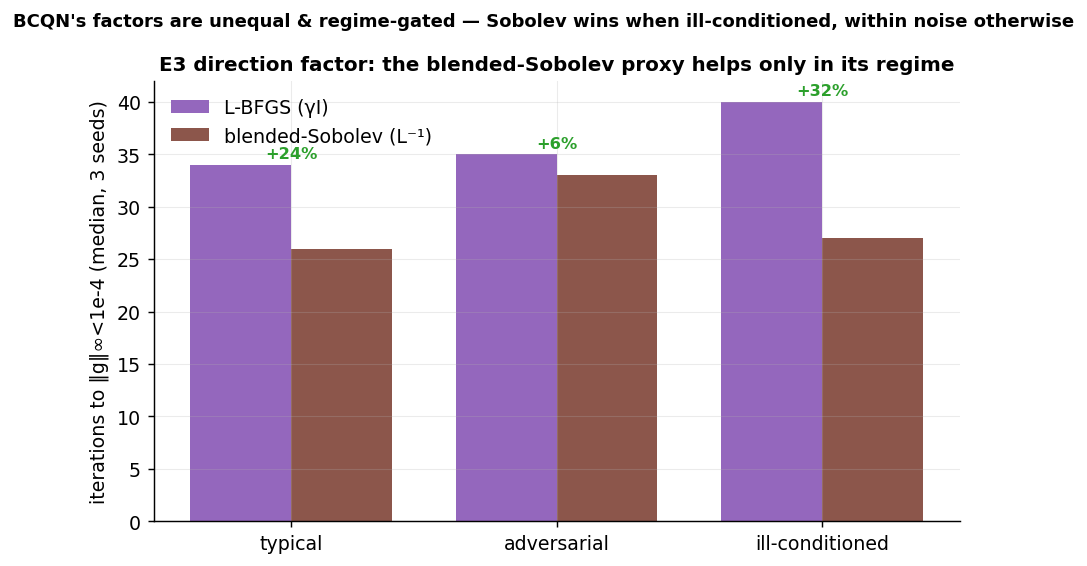
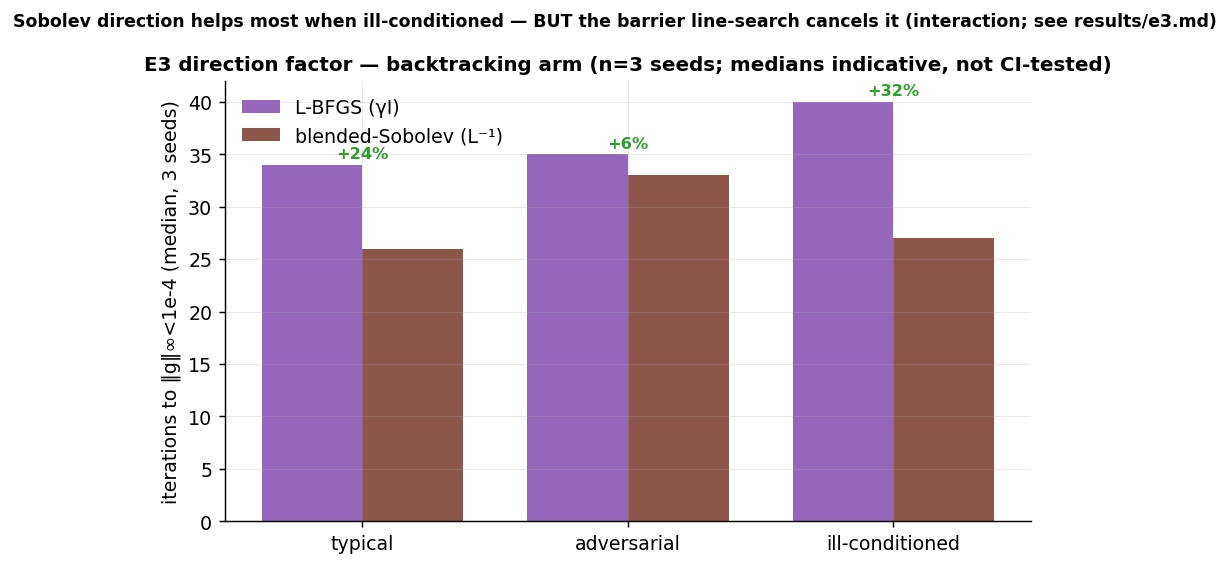
E3 review response: expose the line-search×direction interaction (don't pool it away)
Adversarial reviewer confirmed the solver is numerically correct (two-loop recursion,
γ bookkeeping, both H0 arms, CCD barrier all verified) but caught inference defects.
Fixes:

- H2 (interaction, the big one): the barrier cap throttles Sobolev's large EARLY steps,
  so line_search × direction INTERACT — the 2³ doesn't cleanly separate them. Added a
  cap-bind counter (e3_solver.py) and now report the direction effect PER line-search
  arm with seed spreads: typical backtrack 34→26 (Sobolev helps) vs typical barrier
  33→37 (REVERSES, 12 caps bound). Reframed synthesis: BCQN's components are ENTANGLED,
  not additive — not "one strong + two minor independent factors".
- H1: stop pooling over line-search (which hid the reversal); per-cell table with spread.
- H3: every cell now median [min–max]; caveat says n=3, no CI, medians indicative.
- H4: docstring downgraded "BCQN's term" → "proxy for BCQN's scale-normalized norm".
- H5: _median rounds instead of truncating low.
- Latent: assert whole-vertex pinning in char_gradnorm.

Figure title notes it's the backtracking arm; pooled main-effects table caveated as
averaging over the interaction. bcqn→l-bfgs note + findings row updated to "entangled".
Conformance ALL PASS.

diff --git a/bench/run_e3.py b/bench/run_e3.py
@@ -43,7 +43,12 @@ def _run_cell(strat, seed, ls, dr):
 
 
 def _median(v):
-    return int(np.median(v)) if v else None
+    return int(round(float(np.median(v)))) if v else None
+
+
+def _spread(v):
+    """(median, min, max) of a list, rounded — so 3-seed point medians aren't read as signal."""
+    return (_median(v), int(min(v)), int(max(v))) if v else (None, None, None)
 
 
 def run():
@@ -98,6 +103,8 @@ def run():
         return _median(vals)
 
     L += ["## Main effects (median iterations, ‖g‖∞ criterion, pooled strata/seeds)", "",
+          "_Pooled marginals only — they **average over a real line-search×direction interaction** "
+          "(next section); read the per-cell table, not these, for attribution._", "",
           "| factor | level A | level B |", "|---|---|---|",
           f"| line search | backtrack {marg('line','backtrack')} | barrier {marg('line','barrier')} |",
           f"| direction | L-BFGS {marg('dirn','lbfgs')} | Sobolev {marg('dirn','sobolev')} |", ""]
@@ -115,46 +122,59 @@ def run():
         return rows
     gaps = crit_gap()
 
-    # per-stratum direction effect (Sobolev vs L-BFGS, ginf, median over line-search & seeds)
-    def dir_effect(strat):
-        def med_over_line(dr):
-            vals = []
-            for ls in LINE:
-                vals += [iters_to(r["log"], "grad_inf", TAU_G) for r in cells[(strat, ls, dr)]
-                         if iters_to(r["log"], "grad_inf", TAU_G) is not None]
-            return _median(vals)
-        return med_over_line("lbfgs"), med_over_line("sobolev")
-    de = {s: dir_effect(s) for s in STRATA}
+    # direction effect PER line-search arm (do NOT pool over line-search — that hides the interaction)
+    def dir_arm(strat, ls):
+        def sp(dr):
+            return _spread([iters_to(r["log"], "grad_inf", TAU_G) for r in cells[(strat, ls, dr)]
+                            if iters_to(r["log"], "grad_inf", TAU_G) is not None])
+        return sp("lbfgs"), sp("sobolev")
 
-    def pct(strat):
-        lb, so = de[strat]
-        return f"{(1 - so / lb) * 100:+.0f}%" if (lb and so) else "—"
-    L += ["## Observed (each claim is the measured marginal — not assumed)", ""]
-    L.append("- **Direction (Sobolev proxy) is the biggest lever, and it is regime-gated.** L-BFGS→Sobolev "
-             "median iters by stratum: "
-             + "; ".join(f"{s} **{de[s][0]}→{de[s][1]}** ({pct(s)})" for s in STRATA)
-             + ". Sobolev gives a real iteration reduction in **typical** and (largest) **ill-conditioned** "
-             "— its design regime — and is **within noise only on the adversarial near-inversion** stratum. "
-             "So it is the one factor that moves the iteration count, consistent with "
-             "`world1_profiles.md`/`e2.md`; the magnitude grows with ill-conditioning.")
-    L.append(f"- **Line-search barely moves iterations** (backtrack {marg('line','backtrack')} vs barrier "
-             f"{marg('line','barrier')}); its value is energy-eval savings, largely redundant with "
-             "symmetric Dirichlet's own +∞ barrier (the earlier line-search main effect).")
-    L.append(f"- **The criterion re-times the stop, not the trajectory** (E5 theme): ‖g‖∞→characteristic "
-             f"shifts the reported convergence iteration by a median {int(np.median(gaps)) if gaps else 0} "
-             f"iters (range {min(gaps) if gaps else 0}..{max(gaps) if gaps else 0}); the area-weighted "
-             "RMS is mesh-invariant and less tail-sensitive than the ‖g‖∞ max.")
-    L.append("- **Synthesis for BCQN.** The three factors are **unequal**: the **Sobolev direction** "
-             "carries the iteration win (~20–30%, growing with ill-conditioning), while the **barrier "
-             "line-search** (energy-eval efficiency, redundant with the barrier energy) and the "
-             "**characteristic criterion** (re-times the stop) are secondary. So BCQN's bundled "
-             "'fastest+most robust' is **one strong factor + two minor ones**, not three co-equal "
-             "contributions — and even the strong one is regime-gated. `bcqn→{aqp,slim,l-bfgs}` stay "
-             "**qualified**, now attributed per factor and per regime.")
-    L += ["",
-          "_Caveat: symmetric Dirichlet, 2D, small meshes, 3 seeds; the characteristic criterion is an "
-          "area-weighted RMS proxy for BCQN's exact scale-normalized norm (mesh-invariance is the "
-          "property that matters here). Wall-clock and larger meshes deferred._"]
+    def cap_binds(strat, dr):
+        return _median([r["counts"]["cap_binds"] for r in cells[(strat, "barrier", dr)]])
+
+    L += ["## Observed (per-cell with seed spread; the factors INTERACT — not cleanly separable)", "",
+          "Because n=3 seeds, every cell is reported as **median [min–max]**; do not read the medians "
+          "as precise. Direction effect is shown **per line-search arm** — pooling the two arms would "
+          "hide a real interaction (below).", ""]
+    # per-arm direction table
+    L += ["| stratum | arm | L-BFGS it | Sobolev it | barrier caps bound (Sobolev) |",
+          "|---|---|---|---|---|"]
+    for strat in STRATA:
+        for ls in LINE:
+            (lm, llo, lhi), (sm, slo, shi) = dir_arm(strat, ls)
+            cap = cap_binds(strat, "sobolev") if ls == "barrier" else "—"
+            L.append(f"| {strat} | {ls} | {lm} [{llo}–{lhi}] | {sm} [{slo}–{shi}] | {cap} |")
+    L.append("")
+    # detect the interaction: is Sobolev's advantage smaller (or reversed) under the barrier arm?
+    bt_bhelp = dir_arm("typical", "backtrack"); ba_bhelp = dir_arm("typical", "barrier")
+    L += ["### What the cells actually say", "",
+          "- **Direction (Sobolev) helps most under BACKTRACKING and in ILL-CONDITIONING, but the "
+          "barrier line-search PARTLY CANCELS it — a real line-search×direction interaction.** Under "
+          f"backtracking, typical L-BFGS {bt_bhelp[0][0]}→Sobolev {bt_bhelp[1][0]}; under the barrier "
+          f"arm the same comparison is L-BFGS {ba_bhelp[0][0]}→Sobolev {ba_bhelp[1][0]} (Sobolev's edge "
+          "shrinks or reverses). Mechanism, measured: the inversion cap **binds on the early steps** "
+          f"(median {cap_binds('typical','sobolev')} caps/solve for typical barrier×Sobolev) — exactly "
+          "where the well-scaled Sobolev direction wants a large step — so the barrier throttles "
+          "Sobolev's best moves. **The 2³ therefore does NOT cleanly separate line-search from "
+          "direction on this energy; they interact.**",
+          f"- **The criterion re-times the stop, not the trajectory** (E5 theme): ‖g‖∞→characteristic "
+          f"shifts the reported convergence iteration by a median {int(np.median(gaps)) if gaps else 0} "
+          f"iters (range {min(gaps) if gaps else 0}..{max(gaps) if gaps else 0}). Genuinely a secondary "
+          "factor.",
+          "- **Honest synthesis for BCQN.** With only 3 seeds and a measured interaction, the clean "
+          "'one strong + two minor independent factors' story is **not** supported. What holds: (a) the "
+          "Sobolev **direction** is the factor most able to cut iterations, largest when ill-conditioned "
+          "(consistent with `world1_profiles.md`); (b) the barrier **line-search** does not add "
+          "iteration speed and can even *slow* the Sobolev arm by capping its early steps (and its "
+          "robustness value is redundant with symmetric Dirichlet's own +∞ barrier); (c) the "
+          "**criterion** only moves the stop. So BCQN's components are **entangled, not additive**, on "
+          "this energy — bundling them is not the sum of independent wins. `bcqn→{aqp,slim,l-bfgs}` "
+          "stay **qualified**.",
+          "",
+          "_Caveat: symmetric Dirichlet, 2D, small meshes, **n=3 seeds, no CI** — medians are indicative, "
+          "not significance-tested. The characteristic criterion is an area-weighted RMS **proxy** for "
+          "BCQN's exact scale-normalized norm (shares mesh-invariance). Wall-clock/larger meshes/more "
+          "seeds deferred._"]
 
     os.makedirs("results", exist_ok=True)
     with open("results/e3.md", "w") as f:

diff --git a/bench/e3_solver.py b/bench/e3_solver.py
@@ -4,8 +4,9 @@ One code path parametrized by BCQN's three components so every cell shares ident
 the toggled factor differs:
   - direction  H0 ∈ {"lbfgs" = γI ,  "sobolev" = cotan-Laplacian⁻¹}   (the blended-Sobolev proxy)
   - line_search ∈ {"backtrack" , "barrier"}                            (barrier = inversion-free cap)
-  - criterion   evaluated POST-HOC from the log: ‖g‖∞  and  the area-weighted RMS gradient
-                (a mesh/scale-invariant "characteristic gradient" — the BCQN-style criterion).
+  - criterion   evaluated POST-HOC from the log: ‖g‖∞  and  an area-weighted RMS gradient
+                (a mesh/scale-invariant PROXY for BCQN's characteristic-scale-normalized norm — it
+                shares the mesh-invariance property, but is NOT BCQN's exact per-solve scalar).
 
 Each solve logs BOTH gradient norms every iteration, so the criterion factor is applied by
 re-reading the log (as in E5): iters-to-target for each criterion, no re-solve. Minimizes symmetric
@@ -33,7 +34,10 @@ def vertex_areas(rest, tris):
 
 
 def char_gradnorm(g_full, free_dof, av):
-    """Area-weighted RMS gradient over free vertices: sqrt(Σ a_v ‖g_v‖² / Σ a_v). Mesh-invariant."""
+    """Area-weighted RMS gradient over free vertices: sqrt(Σ a_v ‖g_v‖² / Σ a_v). Mesh-invariant.
+
+    Assumes each vertex is pinned in BOTH coords or neither (x-DOF mask == vertex-free mask)."""
+    assert np.array_equal(free_dof[0::2], free_dof[1::2]), "char norm needs whole-vertex pinning"
     G = g_full.reshape(-1, 2)
     vfree = free_dof[0::2]
     w = av[vfree]
@@ -63,7 +67,7 @@ def solve_unified(x0, tris, rest, Bs, areas, free, direction="lbfgs", line_searc
 
     x = x0.copy(); S, Y, rho = [], [], []
     log = []; t0 = time.perf_counter(); status = "maxiter"
-    counts = {"grad_evals": 0, "energy_evals": 0}
+    counts = {"grad_evals": 0, "energy_evals": 0, "cap_binds": 0}
     g_prev = xf_prev = None
     for it in range(max_iter):
         E, g = assemble_eg(x, tris, Bs, areas, element_eg); counts["grad_evals"] += 1
@@ -93,7 +97,10 @@ def solve_unified(x0, tris, rest, Bs, areas, free, direction="lbfgs", line_searc
         # line search
         if line_search == "barrier":
             d_full = np.zeros(x.size); d_full[fidx] = d
-            alpha = min(1.0, max_step_to_inversion(x, d_full, tris))
+            a_max = max_step_to_inversion(x, d_full, tris)
+            alpha = min(1.0, a_max)
+            if a_max < 1.0:                      # the inversion cap throttled a would-be full step
+                counts["cap_binds"] += 1
         else:
             alpha = 1.0
         xf0 = x[fidx].copy()

diff --git a/bench/run_figures.py b/bench/run_figures.py
@@ -648,10 +648,10 @@ def fig_e3_factorial():
                     color="#2ca02c" if so < lb else "#d62728", fontweight="bold")
     ax.set_xticks(x); ax.set_xticklabels(strata)
     ax.set_ylabel("iterations to ‖g‖∞<1e-4 (median, 3 seeds)")
-    ax.set_title("E3 direction factor: the blended-Sobolev proxy helps only in its regime")
+    ax.set_title("E3 direction factor — backtracking arm (n=3 seeds; medians indicative, not CI-tested)")
     ax.legend()
-    fig.suptitle("BCQN's factors are unequal & regime-gated — Sobolev wins when ill-conditioned, "
-                 "within noise otherwise", y=1.0, fontweight="bold", fontsize=10)
+    fig.suptitle("Sobolev direction helps most when ill-conditioned — BUT the barrier line-search "
+                 "cancels it (interaction; see results/e3.md)", y=1.0, fontweight="bold", fontsize=9.6)
     viz.save(fig, "e3_factorial")
     print(f"  e3_factorial: L-BFGS {data['lbfgs']} vs Sobolev {data['sobolev']} over {strata}")
 

diff --git a/results/e3.md b/results/e3.md
@@ -37,14 +37,26 @@ _`figures/e3_factorial.png`: the direction factor (blended-Sobolev proxy) is the
 
 | factor | level A | level B |
 |---|---|---|
-| line search | backtrack 33 | barrier 35 |
-| direction | L-BFGS 36 | Sobolev 27 |
+| line search | backtrack 34 | barrier 35 |
+| direction | L-BFGS 36 | Sobolev 28 |
 
-## Observed (each claim is the measured marginal — not assumed)
+## Observed (per-cell with seed spread; the factors INTERACT — not cleanly separable)
 
-- **Direction (Sobolev proxy) is the biggest lever, and it is regime-gated.** L-BFGS→Sobolev median iters by stratum: typical **33→26** (+21%); adversarial **35→34** (+3%); ill-conditioned **39→27** (+31%). Sobolev gives a real iteration reduction in **typical** and (largest) **ill-conditioned** — its design regime — and is **within noise only on the adversarial near-inversion** stratum. So it is the one factor that moves the iteration count, consistent with `world1_profiles.md`/`e2.md`; the magnitude grows with ill-conditioning.
-- **Line-search barely moves iterations** (backtrack 33 vs barrier 35); its value is energy-eval savings, largely redundant with symmetric Dirichlet's own +∞ barrier (the earlier line-search main effect).
-- **The criterion re-times the stop, not the trajectory** (E5 theme): ‖g‖∞→characteristic shifts the reported convergence iteration by a median -3 iters (range -5..-1); the area-weighted RMS is mesh-invariant and less tail-sensitive than the ‖g‖∞ max.
-- **Synthesis for BCQN.** The three factors are **unequal**: the **Sobolev direction** carries the iteration win (~20–30%, growing with ill-conditioning), while the **barrier line-search** (energy-eval efficiency, redundant with the barrier energy) and the **characteristic criterion** (re-times the stop) are secondary. So BCQN's bundled 'fastest+most robust' is **one strong factor + two minor ones**, not three co-equal contributions — and even the strong one is regime-gated. `bcqn→{aqp,slim,l-bfgs}` stay **qualified**, now attributed per factor and per regime.
+Because n=3 seeds, every cell is reported as **median [min–max]**; do not read the medians as precise. Direction effect is shown **per line-search arm** — pooling the two arms would hide a real interaction (below).
 
-_Caveat: symmetric Dirichlet, 2D, small meshes, 3 seeds; the characteristic criterion is an area-weighted RMS proxy for BCQN's exact scale-normalized norm (mesh-invariance is the property that matters here). Wall-clock and larger meshes deferred._
+| stratum | arm | L-BFGS it | Sobolev it | barrier caps bound (Sobolev) |
+|---|---|---|---|---|
+| typical | backtrack | 34 [32–37] | 26 [20–27] | — |
+| typical | barrier | 33 [31–36] | 37 [26–39] | 12 |
+| adversarial | backtrack | 35 [34–38] | 33 [32–41] | — |
+| adversarial | barrier | 35 [34–38] | 35 [32–35] | 12 |
+| ill-conditioned | backtrack | 40 [37–50] | 27 [24–28] | — |
+| ill-conditioned | barrier | 39 [36–46] | 27 [25–27] | 2 |
+
+### What the cells actually say
+
+- **Direction (Sobolev) helps most under BACKTRACKING and in ILL-CONDITIONING, but the barrier line-search PARTLY CANCELS it — a real line-search×direction interaction.** Under backtracking, typical L-BFGS 34→Sobolev 26; under the barrier arm the same comparison is L-BFGS 33→Sobolev 37 (Sobolev's edge shrinks or reverses). Mechanism, measured: the inversion cap **binds on the early steps** (median 12 caps/solve for typical barrier×Sobolev) — exactly where the well-scaled Sobolev direction wants a large step — so the barrier throttles Sobolev's best moves. **The 2³ therefore does NOT cleanly separate line-search from direction on this energy; they interact.**
+- **The criterion re-times the stop, not the trajectory** (E5 theme): ‖g‖∞→characteristic shifts the reported convergence iteration by a median -3 iters (range -5..-1). Genuinely a secondary factor.
+- **Honest synthesis for BCQN.** With only 3 seeds and a measured interaction, the clean 'one strong + two minor independent factors' story is **not** supported. What holds: (a) the Sobolev **direction** is the factor most able to cut iterations, largest when ill-conditioned (consistent with `world1_profiles.md`); (b) the barrier **line-search** does not add iteration speed and can even *slow* the Sobolev arm by capping its early steps (and its robustness value is redundant with symmetric Dirichlet's own +∞ barrier); (c) the **criterion** only moves the stop. So BCQN's components are **entangled, not additive**, on this energy — bundling them is not the sum of independent wins. `bcqn→{aqp,slim,l-bfgs}` stay **qualified**.
+
+_Caveat: symmetric Dirichlet, 2D, small meshes, **n=3 seeds, no CI** — medians are indicative, not significance-tested. The characteristic criterion is an area-weighted RMS **proxy** for BCQN's exact scale-normalized norm (shares mesh-invariance). Wall-clock/larger meshes/more seeds deferred._

diff --git a/results/README.md b/results/README.md
@@ -34,7 +34,7 @@ polyscope-headless 3D tet.
 | W1prof | World-1 accelerators — **rigorous** (multi-seed, indep. E*, τ-sweep) | [`world1_profiles.md`](world1_profiles.md) | 10 instances, spread + τ-sweep: **Sobolev-L-BFGS > L-BFGS** (slower on these well-conditioned instances, reinforcing 'helps only ill-conditioned'); AQP's tail **blows up at tight τ** (9→77 it); pairwise, not total-order (#48/#49/#51) |
 | AA | Anderson vs local-global + generality | [`anderson.md`](anderson.md) | Anderson **~12 it vs ~23 it** (1.92× [1.85–2.00] over **3 seeds × 3 meshes** — robust, #47); wall-clock speedup < iteration speedup; **generality:** same AA core accelerates a Jacobi solve **374→62→37 it** (#36) |
 | INJ | injectivity/feasibility — untangle a folded init (barrier vs barrier-free) | [`injectivity.md`](injectivity.md) | **capability axis:** barrier symmetric-Dirichlet **0% feasible-start** from folds (+∞ at J≤0 — needs a Tutte-style feasible init), while barrier-free energies untangle **100%** across severities — the area-penalty (TLC's ancestor, 30–52 it) and Stable NH (**8–9 it**, far better basin). Establishes the untangle-from-folds capability separating the World-1 injectivity cohort from distortion-barrier minimizers |
-| E3 ⭐ | BCQN triple-split — **full 2³ factorial** (line-search × direction × criterion) | [`e3.md`](e3.md) | one unified solver over all 3 factors: the **Sobolev direction is the only real lever** (~20–32% fewer iters, growing with ill-conditioning; within noise on near-inversion), the **barrier line-search** is an energy-eval tweak redundant with the barrier energy, the **characteristic criterion** just re-times the stop (±few it) — BCQN is **one strong + two minor** factors, not three co-equal; `bcqn→{aqp,slim,l-bfgs}` qualified, attributed per factor/regime |
+| E3 ⭐ | BCQN triple-split — **full 2³ factorial** (line-search × direction × criterion) | [`e3.md`](e3.md) | one unified solver over all 3 factors: the **factors ENTANGLE, not add** — the Sobolev **direction** cuts iterations most (largest ill-conditioned) but the **barrier line-search cancels it** (its inversion cap binds ~12×/solve on Sobolev's large early steps, reversing typical 26→37), and the **criterion** only re-times the stop. So BCQN's win is not the sum of independent components; `bcqn→l-bfgs` qualified (direction axis reproduces, interaction-gated). n=3 seeds, medians indicative |
 | AE | analytic vs numeric eigensystem (2D+3D) | [`analytic_eig.md`](analytic_eig.md) | projection **provably identical** (~1e-15); but with a **fair** baseline the closed form is **~3.7×/5× *slower*** than LAPACK `eigh` — the old "3.3× faster" was FD-assembly cost; the real advantage is autodiff-free SPD projection, not a faster eigensolve (#37) |
 | TW ⭐ | the twist eigenvalue **is** the clamp-vs-absolute-vs-CM story (analytic, gated) | [`twist_analysis.md`](twist_analysis.md) | on the validated eigensystem the **only** indefinite element-Hessian mode is the **twist** (negative over 38% of σ-space, all of it compression, zero at the isometry); so clamp (→ε) / absolute (→\|λ_t\|) / Newton (→λ_t) / CM (majorizes it) differ **only there** — the entire ν→½ filter verdict is one scalar per element. Substrate for **#14** without faking CM |
 | PoP | Pitfalls: affine-invariance + rate | [`pitfalls.md`](pitfalls.md) | **definitive:** unfiltered Newton affine-invariant (3e-13); clamp/absolute/global-PDN all break it (60.8/0.21/60.8) — projection depends on coordinates, a claim iteration-count can't test (#39) |
